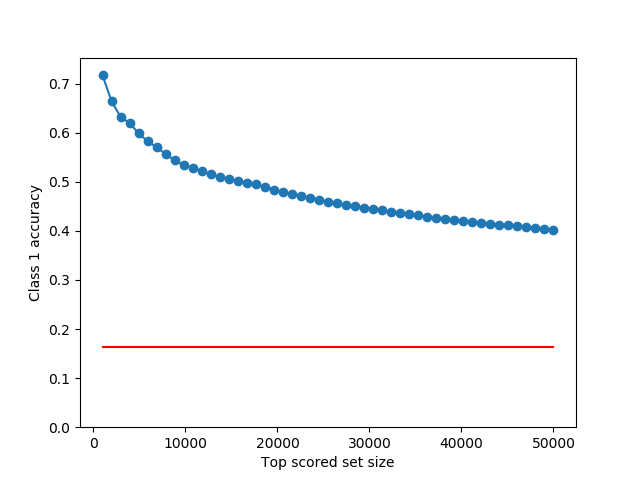
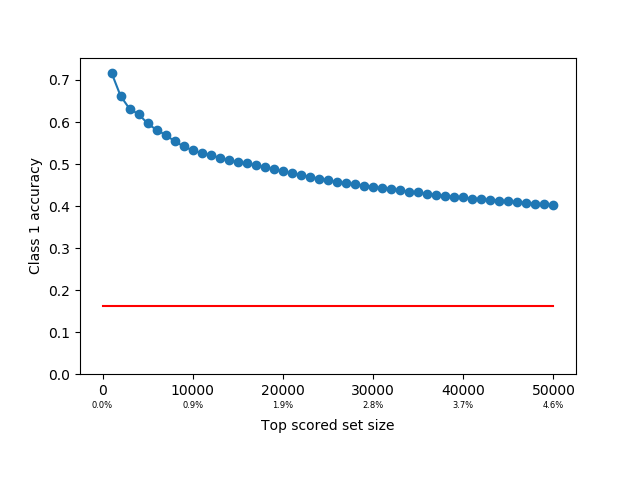
adding percentile ticks to chart

diff --git a/scripts/Challenger_1/modeling.py b/scripts/Challenger_1/modeling.py
@@ -131,7 +131,7 @@ def isolate_top_predictions(predictions, top_preds_batch, prediction_meta, top_n
 def evaluate_predictions(top_preds_batch, prediction_meta):
     total_number_samples_scored = prediction_meta['total_class_0'] + prediction_meta['total_class_1']
     random_accuracy = float(prediction_meta['total_class_1']) / float(total_number_samples_scored)
-    min_threshold = 1000; num_points = 50
+    min_threshold = 0; num_points = 50
     increment = int((len(top_preds_batch) - min_threshold) / float(num_points))
     xs = []; ys = []
     for i in range(0,num_points+1):
@@ -139,7 +139,7 @@ def evaluate_predictions(top_preds_batch, prediction_meta):
         top_batch = top_preds_batch[0:index]
         num_correct_top_preds_batch = float(sum([ x['correct'] for x in top_batch ]))
         num_samples_top_preds_batch = float(len(top_batch))
-        accuracy_top_preds_batch = num_correct_top_preds_batch / num_samples_top_preds_batch
+        accuracy_top_preds_batch = num_correct_top_preds_batch / num_samples_top_preds_batch if num_samples_top_preds_batch > 0 else 0.0
         xs.append(index)
         ys.append(accuracy_top_preds_batch)
         if i == num_points:
@@ -147,13 +147,19 @@ def evaluate_predictions(top_preds_batch, prediction_meta):
             print('Sample size top_preds_batch: ' + str(num_samples_top_preds_batch))
             print('Accuracy top_preds_batch: ' + str(accuracy_top_preds_batch))
             print('Random class 1 accuracy: ' + str(random_accuracy))
+    pcts = [ '%.1f'%(100*(xs[i] / float(total_number_samples_scored))) + '%' for i in range(0,len(xs)) ]
     f, ax = plt.subplots(1)
-    plt.scatter(xs, ys)
-    plt.plot(xs, ys, '-')
+    plt.scatter(xs[1:], ys[1:])
+    plt.plot(xs[1:], ys[1:], '-')
     plt.plot([min(xs),max(xs)], [random_accuracy, random_accuracy], '-', c='r')
     ax.set_ylim(ymin=0)
-    plt.xlabel("Top scored set size")
+    x_text_inds = [ xs[i] for i in range(0,len(xs)) if i % 10 == 0 ]
+    x_text_vals = [ pcts[i] for i in range(0,len(pcts)) if i % 10 == 0 ]
+    plt.xticks(x_text_inds, x_text_inds)
+    for i in range(0,len(x_text_inds)): ax.text(x_text_inds[i], -0.079, x_text_vals[i], size=6, ha='center')
+    plt.xlabel("Top scored set size", labelpad=15)
     plt.ylabel('Class 1 accuracy')
+    f.subplots_adjust(bottom=0.22)
     plt.savefig('top_scored_accuracy.png')
     plt.show()
     return 
@@ -197,6 +203,9 @@ while True:
         df_x = sort_dataframe_columns(df_x)
         predictions = generate_predictions(clf, df_x, df_y)
         top_preds_batch = isolate_top_predictions(predictions, top_preds_batch, prediction_meta, top_n=50000)
+
+        #evaluate_predictions(top_preds_batch, prediction_meta)
+        #sys.exit()
 
     if (len(df) != batch_size) or (mode == 'train'): break
     else: print('processed rows: ' + str(c))
